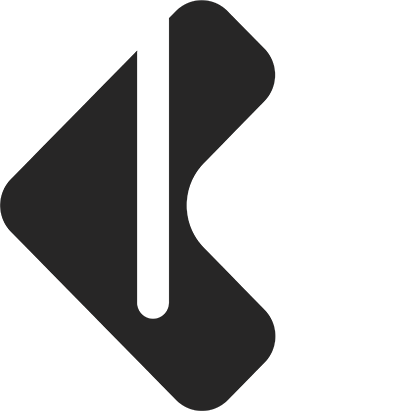
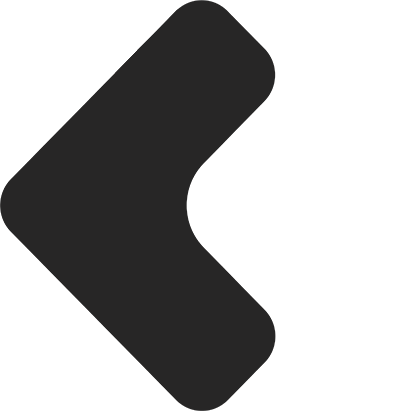
dave wanted sliding white line

Changed region(s): [[0.3259, 0.0292, 0.4148, 0.7883]]

diff --git a/icons/loading/example.html b/icons/loading/example.html
@@ -18,6 +18,15 @@
             width: 100%;
             height: 100%;
         }
+
+        #static-logo-white {
+            animation: slideWhite 0.5s linear;
+            position: relative;
+            top: 0;
+            left: 0;
+            width: 100%;
+            height: 100%;
+        }
         
         #rotating-logo {
             animation: spinRed 1s linear infinite;
@@ -28,6 +37,11 @@
             height: 46%;
         }
  
+        @keyframes slideWhite {
+            from{top:-300px;opacity:0} 
+            to{top:0;opacity:1}
+        }     
+
         @keyframes spinRed {
             0% {
             transform: scale (1, 1);
@@ -70,6 +84,7 @@
     <div align="center">
         <div id="spinner-container">
             <img id="static-logo" src="icons_v1/kvikna_spinner_black.png" alt="Static Logo"/>
+            <img id="static-logo-white" src="icons_v1/kvikna_spinner_white.png" alt="Static Logo White"/>
             <img id="rotating-logo" src="icons_v1/kvikna_spinner_red.png" alt="Rotating Logo"/>
         </div>
     </div>
